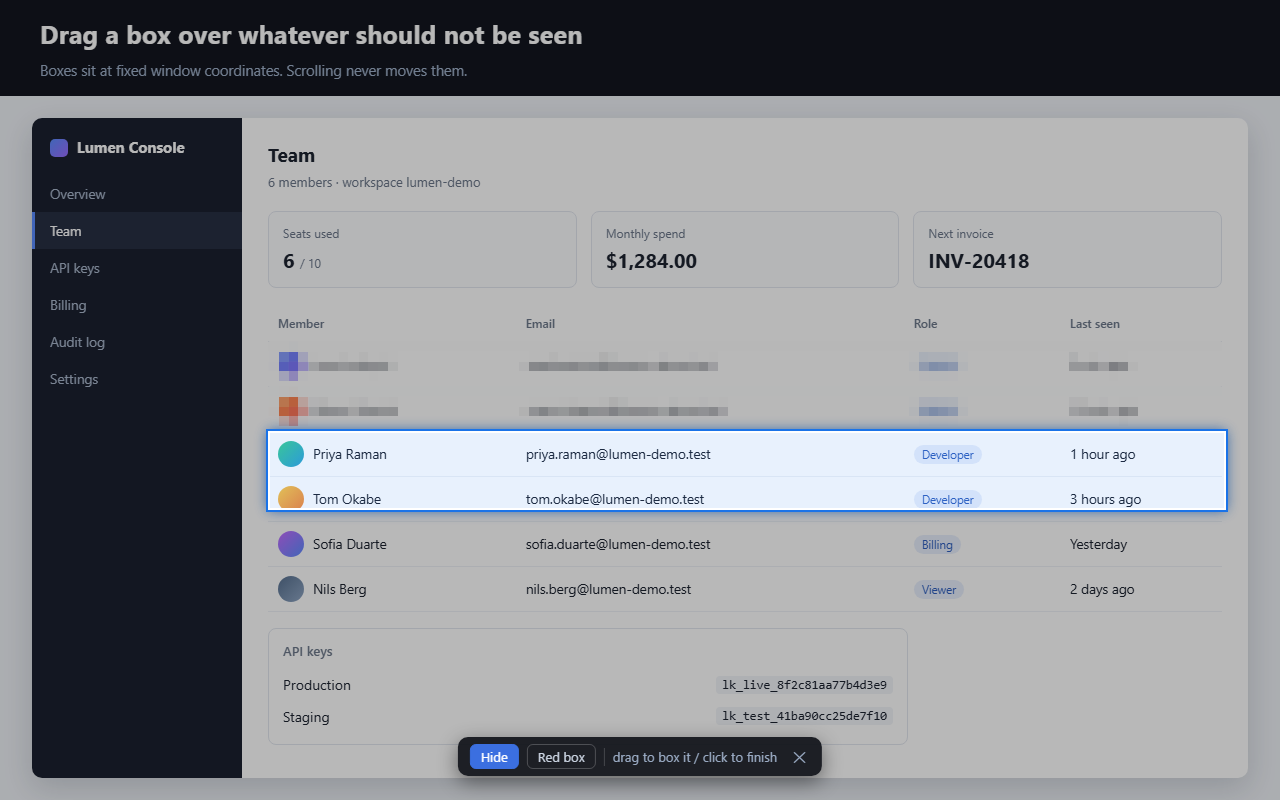
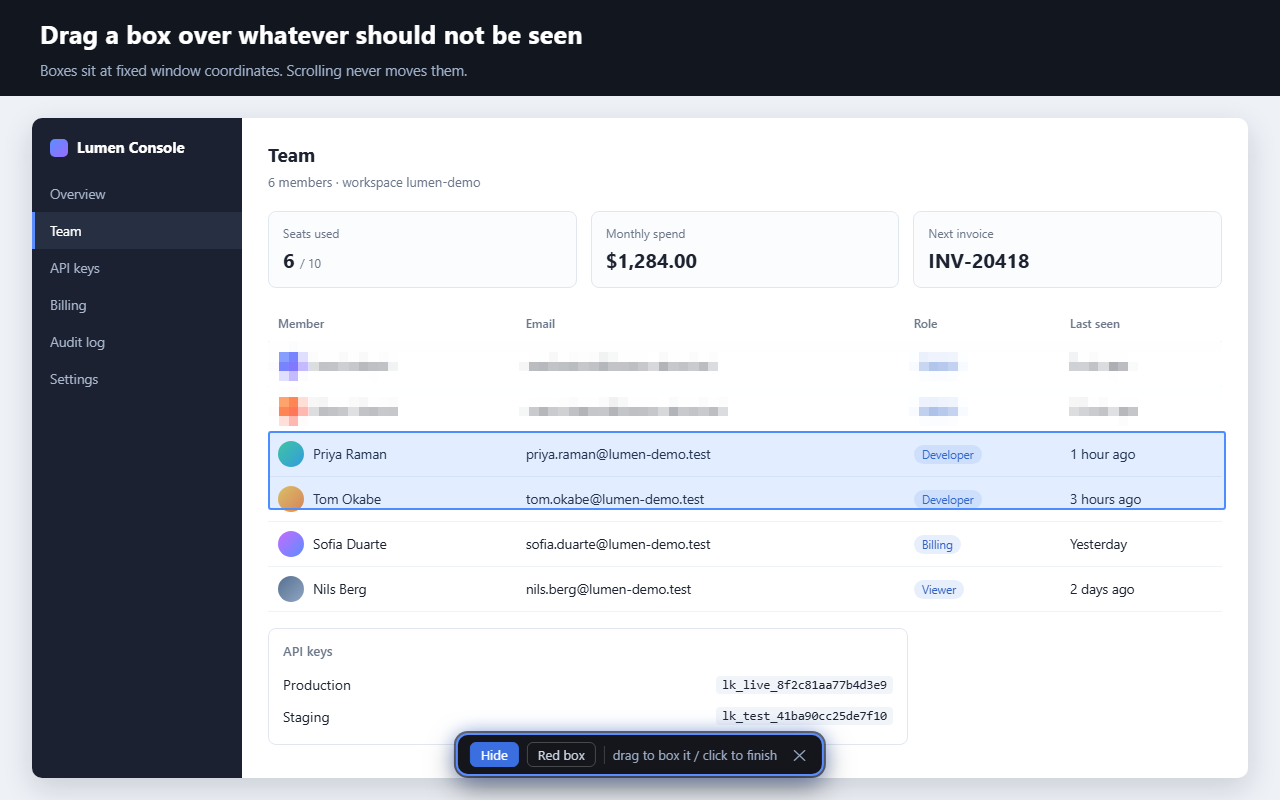
Make the rect toolbar visible, show what is already applied
The floating toolbar was easy to miss, so it now has a bright outline
and a glow. The drag rectangle goes back to the plain blue it was
before; that one was never the problem.

While the toolbar is up, everything already applied is outlined with a
dashed marker, coloured by what it is anchored to: amber for the boxes
pinned to window coordinates, green for the ones that ride along with
the page. The legend only appears once there is something to label.

Hide and red box can now be swapped without aiming at the toolbar:
press E, or hit Ctrl+Shift+E again.

diff --git a/src/content.js b/src/content.js
@@ -276,7 +276,7 @@
     const m = resolveMode(mode);
     // 赤枠は要素に outline を引くと親の overflow で切れるので、常に重ねて描く
     if (m === 'frame') return frameRects(el.getBoundingClientRect(), { anchor: el });
-    const id = register(el, wrapped ? 'wrap' : 'element', m);
+    const id = register(el, wrapped ? 'wrap' : 'element', m, { fixed: false });
     paintHide(el, m);
     return id;
   }
@@ -307,7 +307,7 @@
     if (m === 'frame') return frameRects(r, { fixed: true });
 
     const el = newOverlay();
-    const id = register(el, 'overlay', m);
+    const id = register(el, 'overlay', m, { fixed: true });
     let look;
     if (m === 'solid') {
       look = 'background:#000 !important;border:0 !important;border-radius:2px !important;';
@@ -337,7 +337,7 @@
     const box = unionRect(Array.isArray(rectOrRects) ? rectOrRects : [rectOrRects]);
     if (!box) return null;
     const el = newOverlay();
-    const id = register(el, 'overlay', 'frame', { anchor, fixed });
+    const id = register(el, 'overlay', 'frame', { anchor, fixed: !!fixed });
     placeFrame(el, box, fixed);
     return id;
   }
@@ -497,6 +497,7 @@
   /* ---------- 画面上のUI ---------- */
 
   let overlayUi = null;
+  let toggleRect = null;   // 矩形モード中だけ入る
 
   const modeLabel = (m) => (m === 'frame'
     ? t('modeFrame', 'Red box')
@@ -512,14 +513,22 @@
     sr.innerHTML = `
 <style>
   .box { position:fixed; display:none; pointer-events:none;
-         border:2px solid #ffffff; outline:2px solid #1a73e8; outline-offset:0;
-         box-shadow: 0 0 0 9999px rgba(0,0,0,.28), 0 0 12px rgba(26,115,232,.9);
-         background:rgba(26,115,232,.10); }
+         border:2px solid #4c8dff; background:rgba(76,141,255,.16); border-radius:3px; }
+  .mark { position:fixed; pointer-events:none; border-radius:2px; }
+  .mark.f { outline:2px dashed #ffb020; background:rgba(255,176,32,.13); }
+  .mark.a { outline:2px dashed #35d07f; background:rgba(53,208,127,.13); }
+  .legend { display:flex; align-items:center; gap:10px; color:#9fb0c9; }
+  .legend i { display:inline-block; width:9px; height:9px; border-radius:2px;
+              margin-right:5px; vertical-align:-1px; }
+  .legend .f i { background:#ffb020; }
+  .legend .a i { background:#35d07f; }
   .bar { position:fixed; left:50%; bottom:24px; transform:translateX(-50%);
          display:flex; align-items:center; gap:8px;
          font:13px/1 system-ui,"Segoe UI","Yu Gothic UI",sans-serif; color:#fff;
-         background:rgba(20,22,28,.95); padding:7px 8px 7px 12px; border-radius:10px;
-         box-shadow:0 6px 20px rgba(0,0,0,.45); white-space:nowrap; pointer-events:auto; }
+         background:#14161c; padding:7px 8px 7px 12px; border-radius:12px;
+         border:2px solid #5b8dff;
+         box-shadow:0 0 0 2px rgba(0,0,0,.55), 0 0 18px rgba(91,141,255,.55), 0 10px 28px rgba(0,0,0,.5);
+         white-space:nowrap; pointer-events:auto; }
   .bar button { font:inherit; color:#cfd8e6; background:transparent; cursor:pointer;
                 border:1px solid rgba(255,255,255,.22); border-radius:6px; padding:5px 10px; }
   .bar button:hover { border-color:#8fb8ff; color:#fff; }
@@ -539,6 +548,7 @@
     if (!overlayUi) return;
     const done = overlayUi;
     overlayUi = null;
+    toggleRect = null;
     done();
   }
 
@@ -620,14 +630,48 @@
       <button data-m="hide">${t('modeHide', 'Hide')}</button>
       <button data-m="frame">${t('modeFrame', 'Red box')}</button>
       <span class="sep"></span>
+      <span class="legend" hidden>
+        <span class="f"><i></i>${t('legendWindow', 'window')}</span>
+        <span class="a"><i></i>${t('legendElement', 'element')}</span>
+      </span>
       <span class="hint">${t('hintRect', 'drag to box it / click to finish')}</span>
       <button class="x" aria-label="close">✕</button>`);
+
+    // すでに適用してあるところを見せる。追従先で色を分ける
+    const legend = bar.querySelector('.legend');
+    const marks = [];
+    const drawMarks = () => {
+      for (const m of marks) m.remove();
+      marks.length = 0;
+      for (const rec of records.values()) {
+        if (!rec.el.isConnected) continue;
+        const r = rec.el.getBoundingClientRect();
+        if (r.width <= 0 || r.height <= 0) continue;
+        const m = document.createElement('div');
+        m.className = `mark ${rec.fixed ? 'f' : 'a'}`;
+        m.style.left = `${r.left}px`;
+        m.style.top = `${r.top}px`;
+        m.style.width = `${r.width}px`;
+        m.style.height = `${r.height}px`;
+        sr.appendChild(m);
+        marks.push(m);
+      }
+      legend.hidden = marks.length === 0;
+    };
+    drawMarks();
 
     const syncBar = () => {
       for (const b of bar.querySelectorAll('button[data-m]')) {
         b.setAttribute('aria-pressed', String(b.dataset.m === current));
       }
     };
+    const setMode = (m) => {
+      current = m;
+      settings.mode = m;
+      try { chrome.storage.local.set({ mode: m }); } catch (_) { /* テスト時 */ }
+      syncBar();
+    };
+    toggleRect = () => setMode(current === 'frame' ? 'hide' : 'frame');
     syncBar();
 
     bar.addEventListener('mousedown', (e) => e.stopPropagation(), true);
@@ -636,10 +680,7 @@
       const b = e.target.closest('button');
       if (!b) return;
       if (b.classList.contains('x')) { closeUi(); return; }
-      current = b.dataset.m;
-      settings.mode = current;
-      try { chrome.storage.local.set({ mode: current }); } catch (_) { /* テスト時 */ }
-      syncBar();
+      setMode(b.dataset.m);
     }, true);
 
     let start = null;
@@ -677,19 +718,30 @@
       // ドラッグしていなければただのクリック。モードを抜ける
       if (!moved || r.width < 6 || r.height < 6) { closeUi(); return; }
       applyRect(r, current);
+      drawMarks();
     };
     const onKey = (ev) => {
-      if (ev.key === 'Escape') { ev.preventDefault(); closeUi(); }
+      if (ev.key === 'Escape') { ev.preventDefault(); closeUi(); return; }
+      // モード中は E でモザイクと赤枠を行き来する
+      if ((ev.key === 'e' || ev.key === 'E') && !ev.ctrlKey && !ev.metaKey && !ev.altKey) {
+        ev.preventDefault();
+        ev.stopPropagation();
+        toggleRect();
+      }
     };
 
     host.addEventListener('mousedown', onDown, true);
     window.addEventListener('mousemove', onMove, true);
     window.addEventListener('mouseup', onUp, true);
     document.addEventListener('keydown', onKey, true);
+    window.addEventListener('scroll', drawMarks, true);
+    window.addEventListener('resize', drawMarks, true);
     overlayUi = () => {
       window.removeEventListener('mousemove', onMove, true);
       window.removeEventListener('mouseup', onUp, true);
       document.removeEventListener('keydown', onKey, true);
+      window.removeEventListener('scroll', drawMarks, true);
+      window.removeEventListener('resize', drawMarks, true);
       host.remove();
     };
   }
@@ -715,7 +767,10 @@
       case 'apply-selection': return { count: applySelection(msg.mode) };
       case 'apply-src':       return { count: applyBySrc(msg.srcUrl, msg.mode) };
       case 'pick':            startPicker(msg.mode); return { ok: true };
-      case 'rect':            startRect(msg.mode); return { ok: true };
+      // 矩形モード中にもう一度呼ばれたら切り替えとして扱う
+      case 'rect':
+        if (toggleRect) toggleRect(); else startRect(msg.mode);
+        return { ok: true };
       case 'undo':            return { ok: undo() };
       case 'reveal-all':      closeUi(); return { count: releaseAll() };
       case 'ping':            return { ok: true, applied: records.size };

diff --git a/README.md b/README.md
@@ -21,7 +21,9 @@ manifest v3。ライブラリ依存なし。ホスト権限を持たず、右ク
 範囲の指定は3通り。
 
 - **矩形** (`Ctrl+Shift+E` / ポップアップ) ドラッグで囲む。ウィンドウ基準の固定座標なので
-  スクロールしても動かない。ツールバーで隠す/赤枠を切り替えられる。ドラッグせずクリックすると抜ける
+  スクロールしても動かない。ドラッグせずクリックすると抜ける。ツールバーのボタン、`E` キー、
+  `Ctrl+Shift+E` の再入力のどれでも隠す/赤枠を切り替えられる。
+  モード中は適用済みの箇所が点線で出る（オレンジ=窓に固定 / 緑=要素に追従）
 - **選択範囲** テキストを選んで右クリック、または `Ctrl+Shift+Y`（隠す）/ `Ctrl+Shift+K`（赤枠）
 - **要素** 画像や表の1行など、選択できないものは `Ctrl+Shift+L` の要素ピッカーで指定する。
   カーソルの下がハイライトされ、`↑` で親、`↓` で子、クリックで適用、`Esc` で中止。
